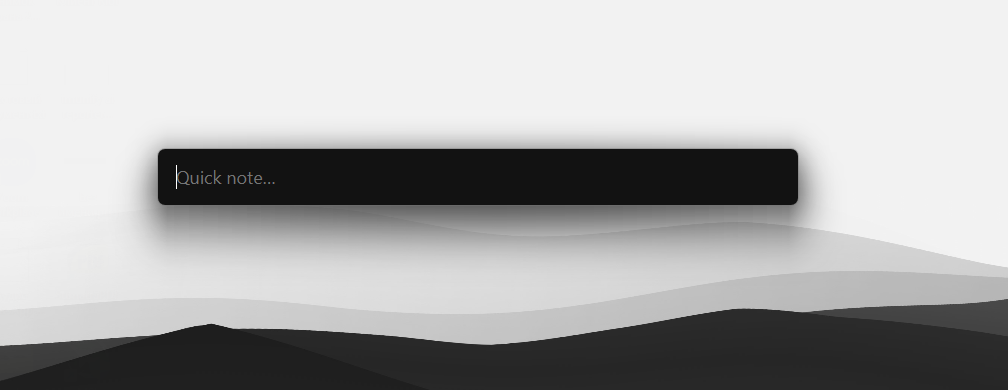
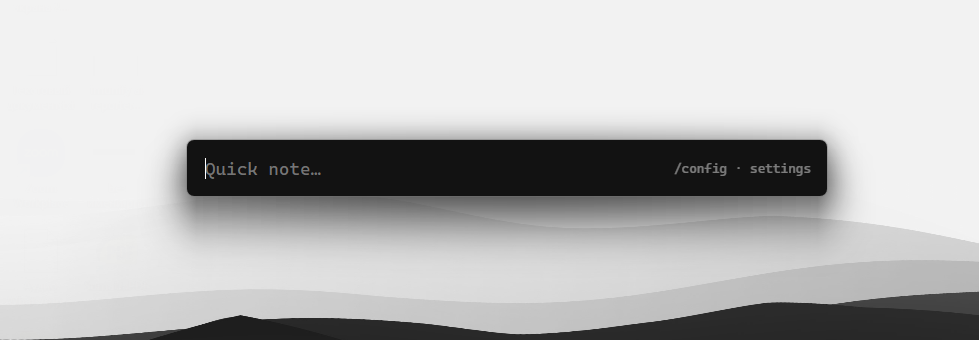
docs: document settings, /config and installation; update screenshot

Changed region(s): [[0.0, 0.3529, 1.0, 1.0]]

diff --git a/README.md b/README.md
@@ -11,6 +11,13 @@ back in whatever you were doing.
   with OneDrive or Git. No database.
 - **Lightweight** — lives in the system tray.
 
+## Installation
+
+Download the installer (`Quicklly_x.y.z_x64-setup.exe`, or the `.msi`) from the
+[latest release](https://github.com/ruslan1us/quicklly/releases/latest) and run it.
+The installer is not code-signed yet, so Windows SmartScreen may warn you: click
+**More info → Run anyway**.
+
 ## Usage
 
 | Action                         | How                                         |
@@ -20,7 +27,7 @@ back in whatever you were doing.
 | Cancel                         | <kbd>Esc</kbd>                              |
 | Dismiss, keeping the draft     | Click anywhere outside the window           |
 | Open the notes folder          | Tray menu → **Open notes folder**           |
-| Settings                       | Tray menu → **Settings…**                   |
+| Settings                       | Type `/config` and press <kbd>Enter</kbd>, or tray menu → **Settings…** |
 | Exit                           | Tray menu → **Quit**                        |
 
 ## Where notes are stored
@@ -62,7 +69,27 @@ grouped by day:
 - 09:05 book a dentist appointment
 ```
 
-The notes folder can be changed in the settings as well (tray menu → **Settings…**).
+The notes folder can be changed in the settings as well.
+
+## Settings
+
+Open the settings with `/config` in the input window or from the tray menu. They are fully
+keyboard-driven:
+
+| Key                                  | Action                                     |
+| ------------------------------------ | ------------------------------------------ |
+| <kbd>↑</kbd> <kbd>↓</kbd>            | Select a setting                           |
+| <kbd>←</kbd> <kbd>→</kbd>            | Switch between values                      |
+| <kbd>Enter</kbd>                     | Edit: record a new hotkey, pick a folder   |
+| <kbd>Del</kbd>                       | Reset the setting to its default           |
+| <kbd>Esc</kbd>                       | Close                                      |
+
+| Setting            | Default                                     | Options                                      |
+| ------------------ | ------------------------------------------- | -------------------------------------------- |
+| Hotkey             | <kbd>Ctrl</kbd>+<kbd>Alt</kbd>+<kbd>N</kbd> | Any key or combination except <kbd>Esc</kbd> |
+| Notes folder       | `%USERPROFILE%\Documents\Quicklly`          | Any folder                                   |
+| Notes file         | One file per day                            | One file per day, or a single `inbox.md`     |
+| Start with Windows | Off                                         | On, Off                                      |
 
 ## Building from source
 
